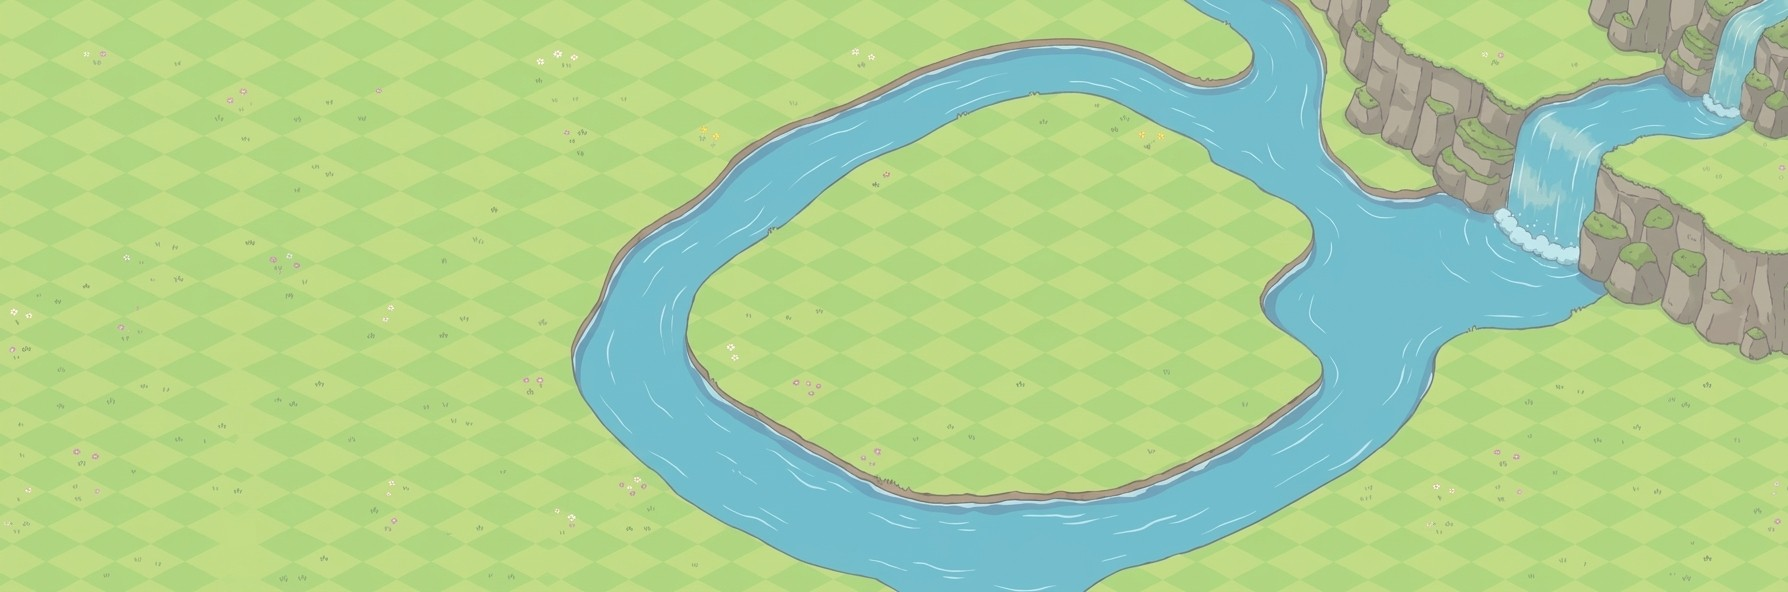
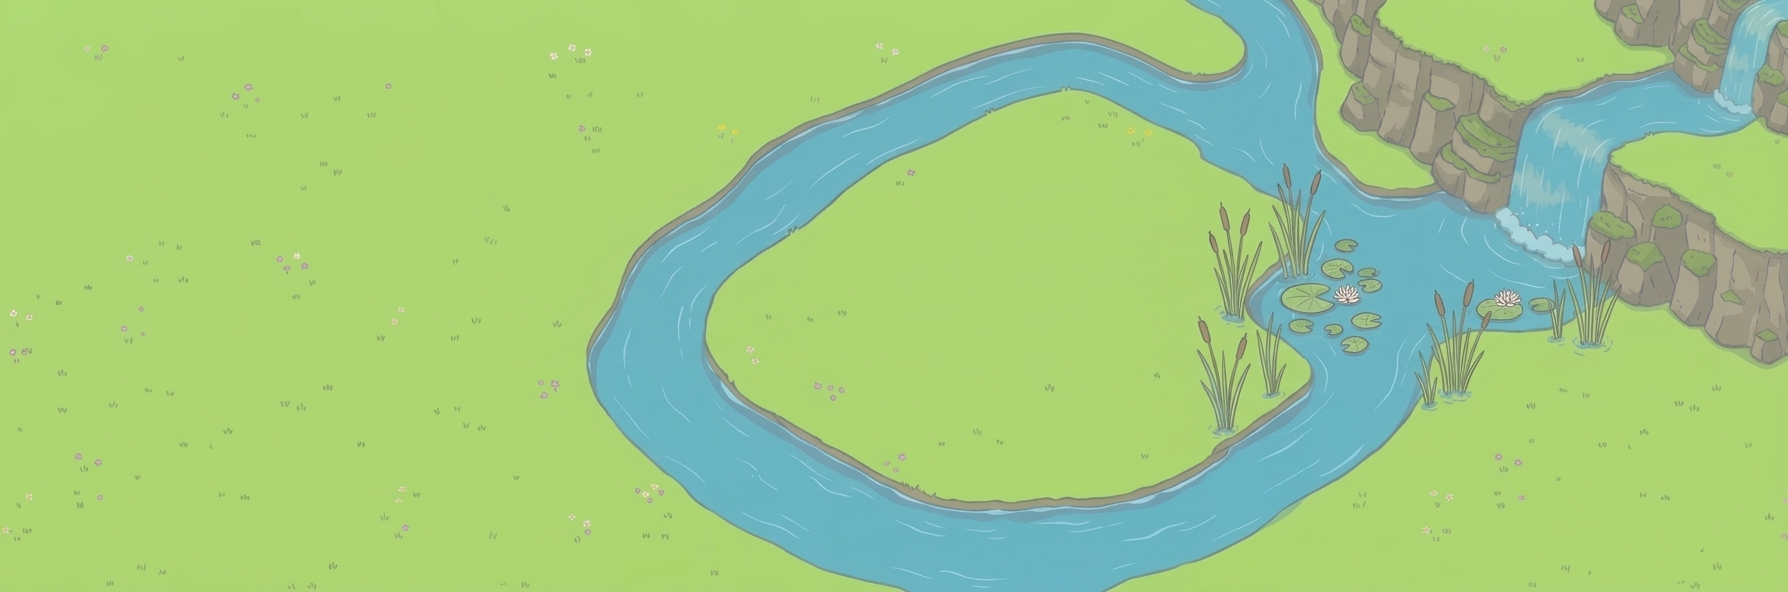
Switch the garden to the new map with reeds and lily pads
Swaps in the plain-grass version of the river map. It has no painted
checkerboard, so tools/make-map.py gains --keep-grid to reuse the
existing tile grid and only re-check which tiles are grass; reeds,
lily pads, river and cliffs stay off-limits.

Claude-Session: https://claude.ai/code/session_01TDUQj2q3kk62dPrWkivCZT

diff --git a/js/map.js b/js/map.js
@@ -1,3 +1,3 @@
 // Generated by tools/make-map.py from assets/garden-map.jpg — do not edit by hand.
 // Tile geometry is in fractions of the image size; land lists buildable grass tiles.
-export const MAP = {"src":"assets/garden-map.jpg","tileW":0.04338366890380304,"tileH":0.060523648648648634,"originX":0.1591135346756149,"originY":0.4407010135135135,"aspect":3.02027027027027,"land":[[-9,-4],[-9,-3],[-8,-5],[-8,-4],[-8,-3],[-8,-2],[-7,-6],[-7,-5],[-7,-4],[-7,-3],[-7,-2],[-7,-1],[-6,-7],[-6,-6],[-6,-5],[-6,-4],[-6,-3],[-6,-2],[-6,-1],[-6,0],[-5,-8],[-5,-7],[-5,-6],[-5,-5],[-5,-4],[-5,-3],[-5,-2],[-5,-1],[-5,0],[-5,1],[-4,-9],[-4,-8],[-4,-7],[-4,-6],[-4,-5],[-4,-4],[-4,-3],[-4,-2],[-4,-1],[-4,0],[-4,1],[-4,2],[-3,-10],[-3,-9],[-3,-8],[-3,-7],[-3,-6],[-3,-5],[-3,-4],[-3,-3],[-3,-2],[-3,-1],[-3,0],[-3,1],[-3,2],[-3,3],[-2,-11],[-2,-10],[-2,-9],[-2,-8],[-2,-7],[-2,-6],[-2,-5],[-2,-4],[-2,-3],[-2,-2],[-2,-1],[-2,0],[-2,1],[-2,2],[-2,3],[-2,4],[-1,-12],[-1,-11],[-1,-10],[-1,-9],[-1,-8],[-1,-7],[-1,-6],[-1,-5],[-1,-4],[-1,-3],[-1,-2],[-1,-1],[-1,0],[-1,1],[-1,2],[-1,3],[-1,4],[-1,5],[0,-13],[0,-12],[0,-11],[0,-10],[0,-9],[0,-8],[0,-7],[0,-6],[0,-5],[0,-4],[0,-3],[0,-2],[0,-1],[0,0],[0,1],[0,2],[0,3],[0,4],[0,5],[0,6],[1,-14],[1,-13],[1,-12],[1,-11],[1,-10],[1,-9],[1,-8],[1,-7],[1,-6],[1,-5],[1,-4],[1,-3],[1,-2],[1,-1],[1,0],[1,1],[1,2],[1,3],[1,4],[1,5],[1,6],[1,7],[2,-15],[2,-14],[2,-13],[2,-12],[2,-11],[2,-10],[2,-8],[2,-7],[2,-6],[2,-5],[2,-4],[2,-3],[2,-2],[2,-1],[2,0],[2,1],[2,2],[2,3],[2,4],[2,5],[2,6],[2,7],[2,8],[3,-16],[3,-7],[3,-6],[3,-5],[3,-4],[3,-3],[3,-2],[3,-1],[3,0],[3,1],[3,2],[3,3],[3,4],[3,5],[3,6],[3,7],[3,9],[4,-17],[4,-4],[4,-3],[4,-2],[4,-1],[4,0],[4,1],[4,2],[4,3],[4,4],[4,5],[4,6],[4,7],[4,8],[4,9],[4,10],[5,-18],[5,-2],[5,-1],[5,0],[5,1],[5,2],[5,3],[5,4],[5,5],[5,6],[5,7],[5,8],[5,9],[5,10],[5,11],[6,-18],[6,-14],[6,-13],[6,-12],[6,-11],[6,-10],[6,-9],[6,-8],[6,-7],[6,-1],[6,0],[6,1],[6,2],[6,3],[6,4],[6,5],[6,6],[6,7],[6,8],[6,9],[6,10],[6,11],[7,-14],[7,-13],[7,-12],[7,-11],[7,-10],[7,-9],[7,-8],[7,-7],[7,-6],[7,-5],[7,-4],[7,1],[7,2],[7,3],[7,4],[7,5],[7,6],[7,7],[7,8],[7,9],[7,10],[8,-21],[8,-14],[8,-13],[8,-12],[8,-11],[8,-10],[8,-9],[8,-8],[8,-7],[8,-6],[8,-5],[8,-4],[8,-3],[8,1],[8,2],[8,3],[8,4],[8,5],[8,6],[8,7],[8,8],[8,9],[9,-22],[9,-21],[9,-14],[9,-13],[9,-12],[9,-11],[9,-10],[9,-9],[9,-8],[9,-7],[9,-6],[9,-5],[9,-4],[9,-3],[9,1],[9,2],[9,3],[9,4],[9,5],[9,6],[9,7],[9,8],[10,-23],[10,-22],[10,-21],[10,-14],[10,-13],[10,-12],[10,-11],[10,-10],[10,-9],[10,-8],[10,-7],[10,-6],[10,-5],[10,-4],[10,-3],[10,2],[10,3],[10,4],[10,5],[10,6],[10,7],[11,-22],[11,-21],[11,-17],[11,-14],[11,-13],[11,-12],[11,-11],[11,-10],[11,-9],[11,-8],[11,-7],[11,-6],[11,-5],[11,-4],[11,-3],[11,3],[11,4],[11,5],[11,6],[12,-14],[12,-13],[12,-12],[12,-11],[12,-10],[12,-9],[12,-8],[12,-7],[12,-6],[12,-5],[12,-4],[12,-3],[12,2],[12,3],[12,4],[12,5],[13,-11],[13,-10],[13,-9],[13,-8],[13,-7],[13,-6],[13,-5],[13,-4],[13,-3],[13,3],[13,4],[14,-10],[14,-9],[14,-8],[14,-7],[14,-6],[14,-5],[14,-4],[14,-3],[14,-2],[14,3],[15,-21],[15,-20],[15,-10],[15,-9],[15,-8],[15,-7],[15,-6],[15,-5],[15,-4],[15,-3],[16,-21],[16,-20],[16,-10],[16,-9],[16,-8],[16,-7],[16,-6],[16,-5],[16,-4],[17,-20],[18,-13],[19,-15],[19,-14],[19,-13],[19,-12],[19,-11],[20,-15],[20,-14],[20,-13],[20,-12],[20,-11],[20,-10],[20,-9],[20,-8],[21,-15],[21,-14],[21,-13],[21,-12],[21,-11],[21,-10],[21,-9],[21,-8],[21,-7],[21,-6],[21,-5],[21,-4],[22,-15],[22,-14],[22,-13],[22,-12],[22,-11],[22,-10],[22,-9],[22,-8],[22,-7],[22,-6],[22,-5],[23,-14],[23,-13],[23,-12],[23,-11],[23,-10],[23,-9],[23,-8],[23,-7],[23,-6],[24,-13],[24,-12],[24,-11],[24,-10],[24,-9],[24,-8],[24,-7],[25,-12],[25,-11],[25,-10],[25,-9],[25,-8],[26,-11],[26,-10],[26,-9],[27,-10]]};
+export const MAP = {"src":"assets/garden-map.jpg","tileW":0.04338366890380304,"tileH":0.060523648648648634,"originX":0.1591135346756149,"originY":0.4407010135135135,"aspect":3.02027027027027,"land":[[-9,-4],[-9,-3],[-8,-5],[-8,-4],[-8,-3],[-8,-2],[-7,-6],[-7,-5],[-7,-4],[-7,-3],[-7,-2],[-7,-1],[-6,-7],[-6,-6],[-6,-5],[-6,-4],[-6,-3],[-6,-2],[-6,-1],[-6,0],[-5,-8],[-5,-7],[-5,-6],[-5,-5],[-5,-4],[-5,-3],[-5,-2],[-5,-1],[-5,0],[-5,1],[-4,-9],[-4,-8],[-4,-7],[-4,-6],[-4,-5],[-4,-4],[-4,-3],[-4,-2],[-4,-1],[-4,0],[-4,1],[-4,2],[-3,-10],[-3,-9],[-3,-8],[-3,-7],[-3,-6],[-3,-5],[-3,-4],[-3,-3],[-3,-2],[-3,-1],[-3,0],[-3,1],[-3,2],[-3,3],[-2,-11],[-2,-10],[-2,-9],[-2,-8],[-2,-7],[-2,-6],[-2,-5],[-2,-4],[-2,-3],[-2,-2],[-2,-1],[-2,0],[-2,1],[-2,3],[-2,4],[-1,-12],[-1,-11],[-1,-10],[-1,-9],[-1,-8],[-1,-7],[-1,-6],[-1,-5],[-1,-4],[-1,-3],[-1,-2],[-1,-1],[-1,0],[-1,1],[-1,2],[-1,3],[-1,4],[-1,5],[0,-13],[0,-12],[0,-11],[0,-10],[0,-9],[0,-8],[0,-7],[0,-6],[0,-5],[0,-4],[0,-3],[0,-2],[0,-1],[0,0],[0,1],[0,2],[0,3],[0,4],[0,5],[0,6],[1,-14],[1,-13],[1,-12],[1,-11],[1,-10],[1,-9],[1,-8],[1,-7],[1,-6],[1,-5],[1,-4],[1,-3],[1,-2],[1,-1],[1,0],[1,1],[1,2],[1,3],[1,4],[1,5],[1,6],[1,7],[2,-15],[2,-14],[2,-13],[2,-12],[2,-11],[2,-10],[2,-9],[2,-8],[2,-7],[2,-6],[2,-5],[2,-4],[2,-3],[2,-2],[2,-1],[2,0],[2,1],[2,2],[2,3],[2,4],[2,5],[2,6],[2,7],[2,8],[3,-16],[3,-8],[3,-7],[3,-6],[3,-5],[3,-4],[3,-3],[3,-2],[3,-1],[3,0],[3,1],[3,2],[3,3],[3,4],[3,5],[3,6],[3,7],[3,8],[3,9],[4,-4],[4,-3],[4,-2],[4,-1],[4,0],[4,1],[4,2],[4,3],[4,4],[4,5],[4,6],[4,7],[4,8],[4,9],[4,10],[5,-18],[5,-3],[5,-2],[5,-1],[5,0],[5,1],[5,2],[5,3],[5,4],[5,5],[5,6],[5,7],[5,8],[5,9],[5,10],[5,11],[6,-18],[6,-14],[6,-13],[6,-12],[6,-11],[6,-10],[6,-9],[6,-8],[6,-1],[6,0],[6,1],[6,2],[6,3],[6,4],[6,5],[6,6],[6,7],[6,8],[6,9],[6,10],[6,11],[7,-14],[7,-13],[7,-12],[7,-11],[7,-10],[7,-9],[7,-8],[7,-7],[7,-6],[7,-5],[7,1],[7,2],[7,3],[7,4],[7,5],[7,6],[7,7],[7,8],[7,9],[7,10],[8,-21],[8,-14],[8,-13],[8,-12],[8,-11],[8,-10],[8,-9],[8,-8],[8,-7],[8,-6],[8,-5],[8,-4],[8,1],[8,2],[8,3],[8,4],[8,5],[8,6],[8,7],[8,8],[8,9],[9,-22],[9,-21],[9,-14],[9,-13],[9,-12],[9,-11],[9,-10],[9,-9],[9,-8],[9,-7],[9,-6],[9,-5],[9,-4],[9,-3],[9,1],[9,2],[9,3],[9,4],[9,5],[9,6],[9,7],[9,8],[10,-23],[10,-22],[10,-21],[10,-14],[10,-13],[10,-12],[10,-11],[10,-10],[10,-9],[10,-8],[10,-7],[10,-6],[10,-5],[10,-4],[10,-3],[10,2],[10,3],[10,4],[10,5],[10,6],[10,7],[11,-23],[11,-22],[11,-21],[11,-17],[11,-14],[11,-12],[11,-11],[11,-10],[11,-9],[11,-8],[11,-7],[11,-6],[11,-5],[11,-4],[11,-3],[11,2],[11,3],[11,4],[11,5],[11,6],[12,-17],[12,-13],[12,-11],[12,-10],[12,-9],[12,-8],[12,-7],[12,-6],[12,-5],[12,-4],[12,-3],[12,2],[12,3],[12,4],[12,5],[13,-10],[13,-9],[13,-8],[13,-7],[13,-6],[13,-5],[13,-4],[13,-3],[13,2],[13,3],[13,4],[14,-10],[14,-9],[14,-8],[14,-7],[14,-6],[14,-5],[14,-4],[14,-3],[14,2],[14,3],[15,-21],[15,-8],[15,-7],[15,-6],[15,-5],[15,-4],[15,-3],[16,-21],[16,-7],[16,-6],[16,-5],[16,-4],[17,-6],[17,-5],[18,-13],[19,-16],[19,-14],[19,-13],[19,-12],[20,-15],[20,-14],[20,-13],[20,-12],[20,-11],[20,-10],[20,-9],[20,-8],[21,-15],[21,-14],[21,-13],[21,-12],[21,-11],[21,-10],[21,-9],[21,-8],[21,-7],[21,-6],[21,-5],[21,-4],[22,-15],[22,-14],[22,-13],[22,-12],[22,-11],[22,-10],[22,-9],[22,-8],[22,-7],[22,-6],[22,-5],[23,-14],[23,-13],[23,-12],[23,-11],[23,-10],[23,-9],[23,-8],[23,-7],[23,-6],[24,-13],[24,-12],[24,-11],[24,-10],[24,-9],[24,-8],[24,-7],[25,-12],[25,-11],[25,-10],[25,-9],[25,-8],[26,-11],[26,-10],[26,-9],[27,-10]]};

diff --git a/tools/make-map.py b/tools/make-map.py
@@ -8,6 +8,7 @@ assets/garden-map.jpg:
     python3 tools/make-map.py [assets/garden-map.jpg]
 """
 import json
+import re
 import sys
 from pathlib import Path
 
@@ -15,81 +16,90 @@ import numpy as np
 from PIL import Image
 
 ROOT = Path(__file__).resolve().parent.parent
-src = Path(sys.argv[1]) if len(sys.argv) > 1 else ROOT / 'assets' / 'garden-map.jpg'
+args = [a for a in sys.argv[1:] if not a.startswith('--')]
+keep_grid = '--keep-grid' in sys.argv
+src = Path(args[0]) if args else ROOT / 'assets' / 'garden-map.jpg'
 img = Image.open(src).convert('RGB')
 IW, IH = img.size
 px = np.asarray(img).astype(float)
 R, G, Bc = px[:, :, 0], px[:, :, 1], px[:, :, 2]
 grass = (G > R + 12) & (G > Bc + 50)
 
-# ---- 1. fit the checkerboard: shade ~ cos(2*pi*x/W - p1) + cos(2*pi*y/H - p2)
-shade = G - R
-ys, xs = np.nonzero(grass)
-pick = np.random.default_rng(1).choice(len(xs), min(20000, len(xs)), replace=False)
-xs, ys = xs[pick].astype(float), ys[pick].astype(float)
-val = shade[ys.astype(int), xs.astype(int)]
-val -= val.mean()
+if keep_grid:
+    old = json.loads(re.search(r'MAP = (\{.*\});', (ROOT / 'js' / 'map.js').read_text()).group(1))
+    W, H = old['tileW'] * IW, old['tileH'] * IH
+    ox, oy = old['originX'] * IW, old['originY'] * IH
+    print(f'image {IW}x{IH}  keeping grid: tile {W:.3f} x {H:.3f}, tile 0,0 at ({ox:.1f}, {oy:.1f})')
+else:
+    # ---- 1. fit the checkerboard: shade ~ cos(2*pi*x/W - p1) + cos(2*pi*y/H - p2)
+    shade = G - R
+    ys, xs = np.nonzero(grass)
+    pick = np.random.default_rng(1).choice(len(xs), min(20000, len(xs)), replace=False)
+    xs, ys = xs[pick].astype(float), ys[pick].astype(float)
+    val = shade[ys.astype(int), xs.astype(int)]
+    val -= val.mean()
 
 
-def score(W, H):
-    return abs(np.mean(val * np.exp(2j * np.pi * xs / W))) + abs(np.mean(val * np.exp(2j * np.pi * ys / H)))
+    def score(W, H):
+        return abs(np.mean(val * np.exp(2j * np.pi * xs / W))) + abs(np.mean(val * np.exp(2j * np.pi * ys / H)))
 
 
-# the two axes are independent, so fit each on its own, coarse then fine
-def fit(lo, hi, axis):
-    best = None
-    for step in (0.5, 0.05, 0.005):
-        for v in np.arange(lo, hi, step):
-            c = xs if axis == 0 else ys
-            a = abs(np.mean(val * np.exp(2j * np.pi * c / v)))
-            if best is None or a > best[0]:
-                best = (a, v)
-        lo, hi = best[1] - step * 2, best[1] + step * 2
-    return best[1]
+    # the two axes are independent, so fit each on its own, coarse then fine
+    def fit(lo, hi, axis):
+        best = None
+        for step in (0.5, 0.05, 0.005):
+            for v in np.arange(lo, hi, step):
+                c = xs if axis == 0 else ys
+                a = abs(np.mean(val * np.exp(2j * np.pi * c / v)))
+                if best is None or a > best[0]:
+                    best = (a, v)
+            lo, hi = best[1] - step * 2, best[1] + step * 2
+        return best[1]
 
 
-scale = IW / 1788.0  # search ranges were tuned on the 1788px original
-W = fit(60 * scale, 100 * scale, 0)
-H = fit(28 * scale, 46 * scale, 1)
-p1 = np.angle(np.mean(val * np.exp(2j * np.pi * xs / W)))
-p2 = np.angle(np.mean(val * np.exp(2j * np.pi * ys / H)))
-x0 = (W * p1 / (2 * np.pi)) % W
-y0 = (H * p2 / (2 * np.pi)) % H
+    scale = IW / 1788.0  # search ranges were tuned on the 1788px original
+    W = fit(60 * scale, 100 * scale, 0)
+    H = fit(28 * scale, 46 * scale, 1)
+    p1 = np.angle(np.mean(val * np.exp(2j * np.pi * xs / W)))
+    p2 = np.angle(np.mean(val * np.exp(2j * np.pi * ys / H)))
+    x0 = (W * p1 / (2 * np.pi)) % W
+    y0 = (H * p2 / (2 * np.pi)) % H
 
 
-# The phase gives a point on the lattice, but not necessarily a diamond centre.
-# Try the candidate offsets and keep the one whose diamonds are flattest inside.
-def flatness(cx0, cy0):
-    errs = []
-    for i in range(0, 46, 3):
-        for j in range(0, 32, 3):
-            if (i + j) % 2:
-                continue
-            cx, cy = cx0 + i * W / 2, cy0 + j * H / 2
-            if not (W < cx < IW - W and H < cy < IH - H):
-                continue
-            pts = [(cx + u * W / 2, cy + v * H / 2) for u, v in
-                   ((0, 0), (-0.8, 0), (0.8, 0), (0, -0.8), (0, 0.8), (-0.4, -0.4), (0.4, 0.4), (-0.4, 0.4), (0.4, -0.4))]
-            if not all(grass[int(y), int(x)] for x, y in pts):
-                continue
-            v = [shade[int(y), int(x)] for x, y in pts]
-            errs.append(np.std(v))
-    return np.mean(errs)
+    # The phase gives a point on the lattice, but not necessarily a diamond centre.
+    # Try the candidate offsets and keep the one whose diamonds are flattest inside.
+    def flatness(cx0, cy0):
+        errs = []
+        for i in range(0, 46, 3):
+            for j in range(0, 32, 3):
+                if (i + j) % 2:
+                    continue
+                cx, cy = cx0 + i * W / 2, cy0 + j * H / 2
+                if not (W < cx < IW - W and H < cy < IH - H):
+                    continue
+                pts = [(cx + u * W / 2, cy + v * H / 2) for u, v in
+                       ((0, 0), (-0.8, 0), (0.8, 0), (0, -0.8), (0, 0.8), (-0.4, -0.4), (0.4, 0.4), (-0.4, 0.4), (0.4, -0.4))]
+                if not all(grass[int(y), int(x)] for x, y in pts):
+                    continue
+                v = [shade[int(y), int(x)] for x, y in pts]
+                errs.append(np.std(v))
+        return np.mean(errs)
 
 
-cands = [(dx, dy) for dx in np.arange(0, W, 1.0) for dy in np.arange(0, H, 1.0)]
-x0, y0 = min(cands, key=lambda c: flatness(*c))
-print(f'image {IW}x{IH}  tile {W:.3f} x {H:.3f}  a tile centre at ({x0:.1f}, {y0:.1f})')
+    cands = [(dx, dy) for dx in np.arange(0, W, 1.0) for dy in np.arange(0, H, 1.0)]
+    x0, y0 = min(cands, key=lambda c: flatness(*c))
+    print(f'image {IW}x{IH}  tile {W:.3f} x {H:.3f}  a tile centre at ({x0:.1f}, {y0:.1f})')
 
-# ---- 2. choose tile (0,0): keep the original 7x7 garden (and the cottage behind
-# it) inside the big left-hand meadow so existing saves keep working.
-want_x, want_y = 0.165 * IW, 0.40 * IH
-# tile centres are at (x0 + i*W/2, y0 + j*H/2) with i + j even
-i = round((want_x - x0) / (W / 2))
-j = round((want_y - y0) / (H / 2))
-if (i + j) % 2:
-    j += 1
-ox, oy = x0 + i * W / 2, y0 + j * H / 2
+    # ---- 2. choose tile (0,0): keep the original 7x7 garden (and the cottage behind
+    # it) inside the big left-hand meadow so existing saves keep working.
+    want_x, want_y = 0.165 * IW, 0.40 * IH
+    # tile centres are at (x0 + i*W/2, y0 + j*H/2) with i + j even
+    i = round((want_x - x0) / (W / 2))
+    j = round((want_y - y0) / (H / 2))
+    if (i + j) % 2:
+        j += 1
+    ox, oy = x0 + i * W / 2, y0 + j * H / 2
+
 
 
 def centre(tx, ty):

diff --git a/README.md b/README.md
@@ -12,7 +12,7 @@ A cosy, mobile-first beekeeping game. Grow a pastel isometric cottage garden, pe
 | 🛍 **Shop** | Buy seeds and decorations with honey. Buy eggs with pollen (and honey for the rarer ones). Shop items unlock as your keeper level goes up. |
 | 🐝 **Bees** | Your collection of 12 species, from Common to Legendary. Each species has traits: faster nectar, extra pollen, more frequent gifts, or a bonus to honey made while you're away. You can rename your bees. |
 
-**The garden map** is the painting in `assets/garden-map.jpg`: meadows, a river looping round an island, and a waterfall. You can build on any grass tile, including the island, but not on the river or cliffs. Drag sideways to explore it. If you replace the picture (a higher-resolution export of the same map works best), run `python3 tools/make-map.py`. It finds the painted tile grid and rebuilds `js/map.js`, the list of buildable tiles.
+**The garden map** is the painting in `assets/garden-map.jpg`: meadows, a river looping round an island, and a waterfall. You can build on any grass tile, including the island, but not on the river or cliffs. Drag sideways to explore it. If you replace the picture (a higher-resolution export of the same map works best), run `python3 tools/make-map.py --keep-grid`. It keeps the current tile grid and rebuilds `js/map.js`, the list of buildable tiles. Leave out `--keep-grid` only for a map with a painted checkerboard, which the script then measures to find the grid.
 
 **Progress saves automatically** to the device (in `localStorage`), every few seconds and whenever the app goes to the background. **While the game is closed** (up to 8 hours), honey cells keep filling, flowers keep growing, eggs keep hatching and gifts keep appearing. You get a "Welcome back" summary when you return.
 
